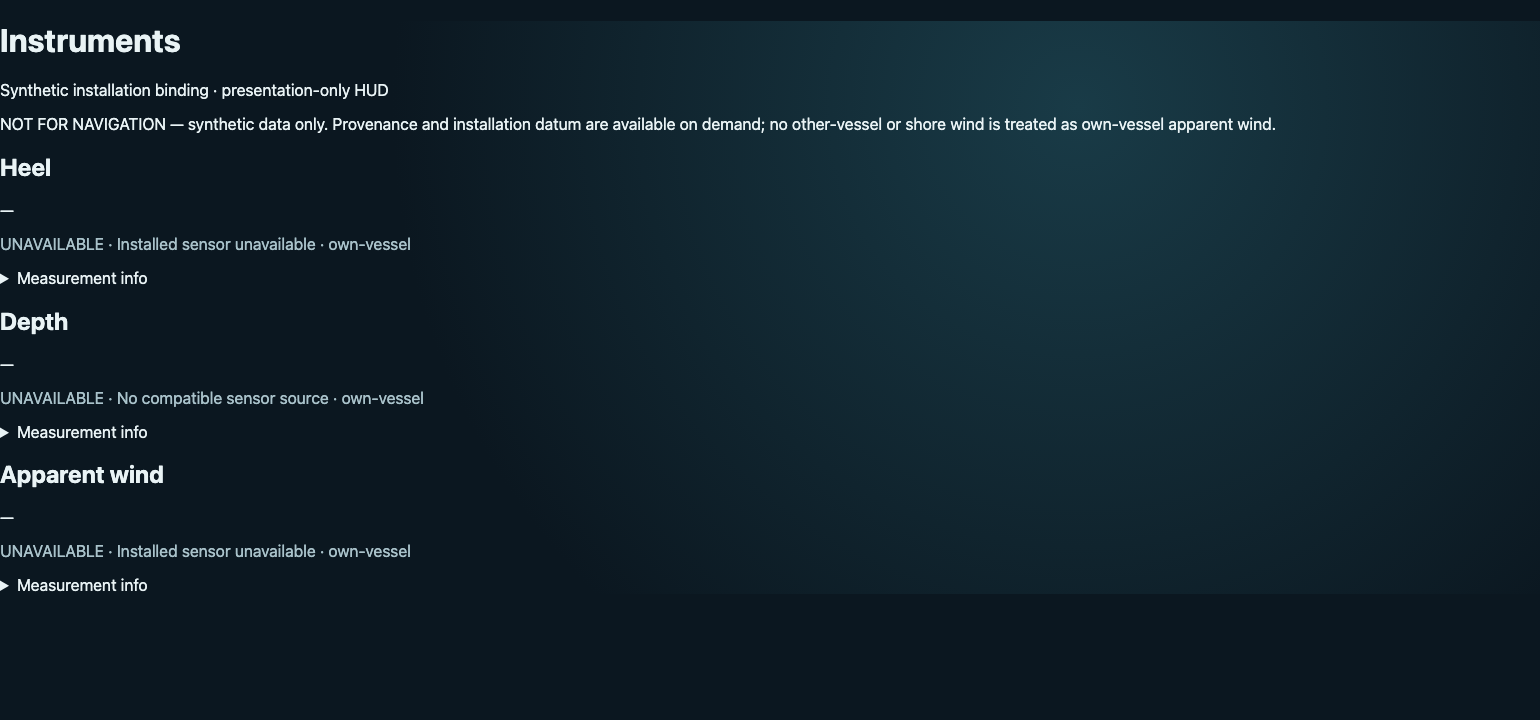
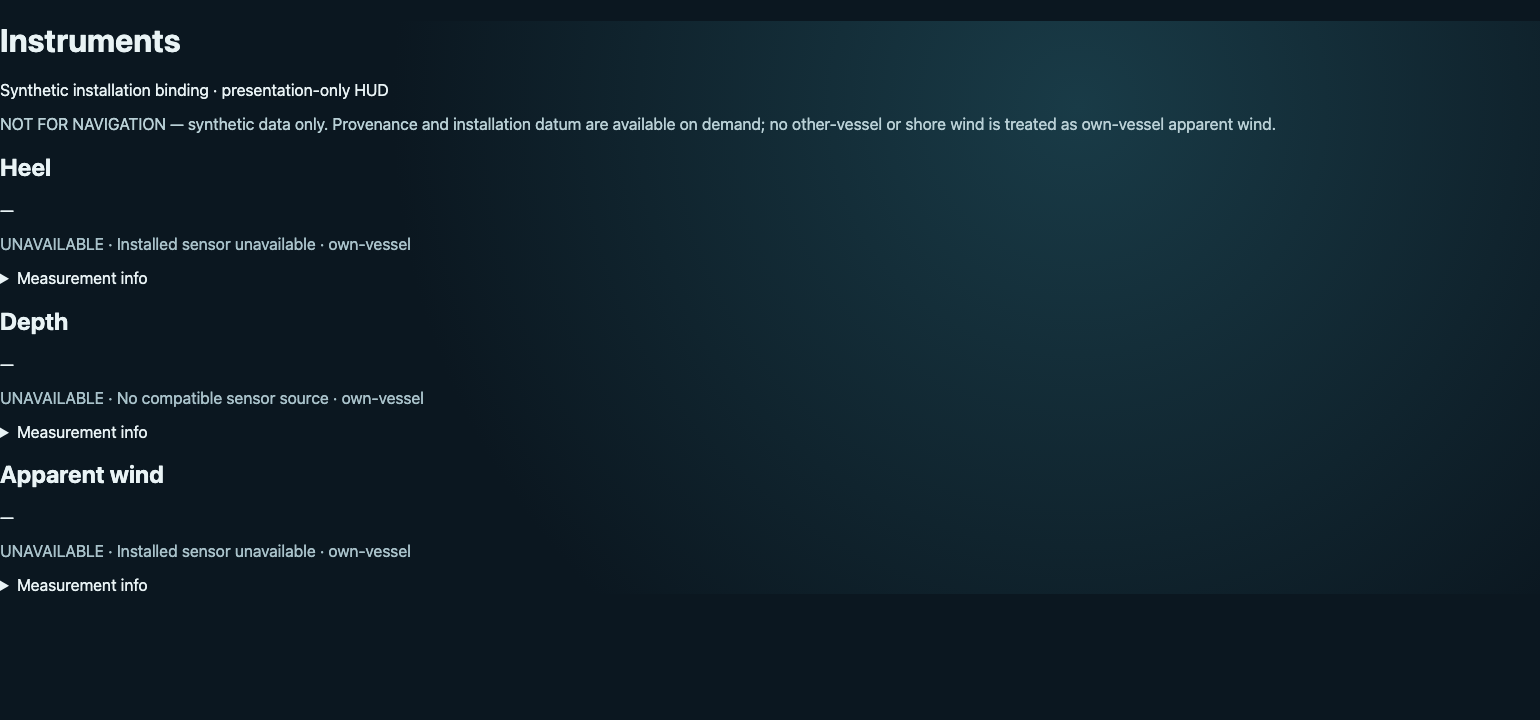
feat: add local display template setup

Changed region(s): [[0.0, 0.1528, 0.8416, 0.1833]]

diff --git a/src/profile.css b/src/profile.css
@@ -1,2 +1,3 @@
 :root{font-family:ui-sans-serif,system-ui,sans-serif;color:#e9f3f5;background:#0b1720}*{box-sizing:border-box}body{margin:0;background:radial-gradient(circle at 70% 15%,#193b47,#0b1720 58%)}button,select,input{font:inherit}button,select{background:#244854;color:#e9f3f5;border:1px solid #5b8490;border-radius:7px;padding:.6rem .85rem}button:focus-visible,input:focus-visible,select:focus-visible{outline:3px solid #f7cc74}.sim{max-width:1024px;margin:auto;padding:2rem}.sim header{display:flex;justify-content:space-between;align-items:center;gap:1rem;flex-wrap:wrap}.sim h1{margin:0}.notice,.meta{color:#a9c2ca}.controls{display:grid;grid-template-columns:repeat(auto-fit,minmax(290px,1fr));gap:1rem;margin-top:1.5rem}.card{background:#132833;border:1px solid #385664;border-radius:14px;padding:1rem}.card h2{margin-top:0}.row{display:flex;gap:.6rem;align-items:center;flex-wrap:wrap}.source-control{border-top:1px solid #385664;padding:.8rem 0}.source-control input[type=range]{width:100%;accent-color:#80d2c3}.status.good{color:#95e3bf}.status.bad{color:#ffb9a8}.hud{width:100vw;height:100vh;overflow:hidden;display:grid;grid-template-columns:minmax(0,1fr) minmax(300px,31vw);gap:clamp(12px,1.4vw,24px);padding:clamp(14px,1.7vw,28px);background:radial-gradient(ellipse at 22% 88%,#1b5360 0,#102a35 35%,#09161d 78%)}.hud-speed,.hud-heel{position:relative;border:1px solid rgba(157,227,202,.25);border-radius:22px;overflow:hidden;background:linear-gradient(135deg,rgba(26,61,70,.62),rgba(9,22,29,.8))}.hud-speed h2,.hud-heel h2{position:absolute;z-index:2;top:clamp(18px,3vh,30px);left:clamp(20px,3vw,46px);margin:0;color:#b3d3d7;font-size:clamp(.8rem,1.5vw,1.2rem);font-weight:650;letter-spacing:.16em;text-transform:uppercase}.speed-history{position:absolute;inset:12% 3% 12%;width:94%;height:76%;opacity:.72}.speed-history path{fill:none;stroke:#82ded0;stroke-width:1.6}.speed-number{position:absolute;z-index:1;inset:0;display:grid;place-content:center;font-size:clamp(7rem,19vw,19rem);line-height:.8;font-weight:800;font-variant-numeric:tabular-nums;text-shadow:0 3px 12px #061116,0 0 26px #061116}.speed-number small{font-size:.18em}.hud .status{position:absolute;z-index:2;bottom:clamp(14px,2.5vh,26px);left:clamp(20px,3vw,46px);margin:0;font-size:clamp(.72rem,1.1vw,.9rem);letter-spacing:.08em}.hud-heel{display:grid;place-items:center}.heel-value{font-size:clamp(5rem,12vw,11rem);font-weight:750;font-variant-numeric:tabular-nums;text-align:center}.heel-value small{font-size:.26em}.heel-direction{color:#9ddfcf;text-align:center;font-weight:700;letter-spacing:.14em}.heel-gauge{position:absolute;bottom:9%;width:76%;height:12px;border-radius:20px;background:linear-gradient(90deg,#e67e63,#78979b 50%,#67c8b2)}.heel-pointer{position:absolute;top:-8px;width:5px;height:28px;background:#fff;border-radius:5px;transform:translateX(-50%)}.hud-wait{position:absolute;inset:0;display:grid;place-items:center;text-align:center;color:#b6d1d5;font-size:clamp(1rem,2vw,1.5rem);background:rgba(5,15,20,.35);z-index:4}.hud-wait[hidden]{display:none}@media(max-width:700px){.hud{grid-template-columns:1fr;grid-template-rows:1.3fr 1fr;padding:10px;gap:10px}.sim{padding:1rem}}
+.sensor-setup{max-width:1040px;margin:auto;padding:2rem}.sensor-setup h1{margin-bottom:.2rem}.sensor-setup .subtitle,.banner{color:#b9d0d6}.template-list{display:grid;grid-template-columns:repeat(auto-fit,minmax(260px,1fr));gap:1rem;margin-top:1rem}.template-card .compatibility{min-height:2.8rem;color:#b9d0d6}.template-card.available{border-color:#74cbae}.template-card.partial{border-color:#f3c46e}.template-card.incompatible{opacity:.68;border-color:#a97878}.template-card button:disabled{cursor:not-allowed;opacity:.5}
 .hud-with-wind{grid-template-columns:minmax(0,1.25fr) minmax(250px,.8fr) minmax(250px,.8fr)}.hud-wind{position:relative;overflow:hidden;border:1px solid rgba(157,227,202,.25);border-radius:22px;background:linear-gradient(135deg,rgba(26,61,70,.62),rgba(9,22,29,.8))}.hud-wind h2{position:absolute;z-index:2;top:clamp(18px,3vh,30px);left:clamp(20px,3vw,32px);margin:0;color:#b3d3d7;font-size:clamp(.75rem,1.3vw,1.05rem);font-weight:650;letter-spacing:.13em;text-transform:uppercase}.wind-speed{position:absolute;z-index:2;top:20%;left:0;width:100%;text-align:center;font-size:clamp(3.2rem,7vw,7rem);line-height:.85;font-weight:800;font-variant-numeric:tabular-nums}.wind-speed small{font-size:.2em}.wind-dial{position:absolute;left:50%;bottom:12%;width:min(76%,300px);aspect-ratio:1;border:2px solid #79b5b4;border-radius:50%;transform:translateX(-50%);background:radial-gradient(circle,#173d48 0 43%,transparent 44%)}.wind-dial b{position:absolute;color:#b3d3d7;font-size:clamp(.55rem,.9vw,.75rem);letter-spacing:.08em;text-align:center}.wind-dial .bow{top:7%;left:50%;transform:translateX(-50%)}.wind-dial .port{left:4%;top:47%;transform:translateY(-50%)}.wind-dial .starboard{right:4%;top:47%;transform:translateY(-50%)}.wind-pointer{position:absolute;left:calc(50% - 3px);top:13%;width:6px;height:39%;transform-origin:50% 96%;background:#f7cc74;border-radius:8px;box-shadow:0 0 12px #f7cc74}.wind-pointer:before{content:'';position:absolute;top:-9px;left:-6px;border-left:9px solid transparent;border-right:9px solid transparent;border-bottom:13px solid #f7cc74}.wind-angle{position:absolute;left:50%;top:53%;transform:translate(-50%,-50%);color:#fff;font-weight:800;font-size:clamp(.8rem,1.5vw,1.15rem);white-space:nowrap}.mode-number .wind-dial{opacity:.25;transform:translateX(-50%) scale(.7);bottom:2%}.mode-number .wind-speed{top:34%;font-size:clamp(4rem,9vw,9rem)}.mode-dial .wind-speed{display:none}.mode-dial .wind-dial{top:18%;bottom:auto;width:min(82%,340px)}.hud-wind .status{position:absolute;bottom:clamp(14px,2.5vh,26px);left:clamp(20px,3vw,32px);margin:0;font-size:clamp(.62rem,.9vw,.8rem);letter-spacing:.08em}@media(max-width:900px){.hud-with-wind{grid-template-columns:1fr 1fr;grid-template-rows:1fr 1fr}.hud-with-wind .hud-speed{grid-row:span 2}}@media(max-width:700px){.hud-with-wind{grid-template-columns:1fr;grid-template-rows:repeat(3,minmax(260px,1fr))}.hud-with-wind .hud-speed{grid-row:auto}}

diff --git a/SENSOR-GROUPS.md b/SENSOR-GROUPS.md
@@ -6,6 +6,14 @@
 - A reusable template declares required and optional semantic inputs. It does not name a provider, model, complete boat inventory or transport.
 - A session picks one installation group and one template. It makes deterministic bindings in declared candidate order and retains producer, frame, timestamp, validity and installation metadata.
 
+## Local setup and community displays
+
+Open `/?view=setup&sensorSession=heel-only-demo` for the small offline setup view. It classifies every community template as **available**, **partial**, or **incompatible**, then creates a HUD URL with the selected template. Selection never writes or alters the installation group, calibration, datum, provider or bindings. The running `?view=hud&sensorSession=...` surface has no setup controls; expand **Measurement info** for source/frame/timestamp and datum context.
+
+The fixture demonstrates the same `heel-degrees` community template with `demo-boat` and `heel-only-boat`, despite their different installed inventories. `demo-boat` can also choose `heel-radians` or `heel-qualitative`. A setup choice may override the heel display unit (`deg` or `rad`) for that user session; it is presentation only and is never a sensor-unit conversion or calibration edit.
+
+Templates are the shareable part of this file. Providers and groups are deliberately local-installation-shaped. Public contributions must use non-identifying labels and synthetic/example values: never add a vessel name, registration, location, route, credentials, raw telemetry, or real calibration. A generic sensor mapping example must state observation, unit, frame and installation meaning; depth must state datum plus calibration/offset known or `unknown`. Templates must use semantic inputs and must not couple to a manufacturer, provider ID or boat identity.
+
 `evaluateTemplate` returns `available` only when every declared input is compatible, `partial` when at least one declared input is compatible but another required **or optional** input is missing, and `incompatible` when no declared input is compatible. This explicitly covers optional-only templates: a subset of their inputs is `partial`, while none is `incompatible`. Extra channels are ignored. This makes an optional missing dial visible without blocking a usable template. A non-existent compatible channel is `No compatible sensor source`; an installed channel with no fresh valid reading is `Installed sensor unavailable or stale`. Those states must not be conflated.
 
 The fixture’s heel-only sessions use exactly the same semantic heel binding while their template preferences render degrees, radians, or configurable `flat` / `little` / `lots to port/starboard` labels. Thresholds must be ordered `0 ≤ flat < little < lots ≤ 90`; beyond `lots`, the formatter falls back to an explicit signed-degree direction rather than silently applying a category outside its configured range. Wind supports knot/metres-per-second display conversion and depth supports metres/feet conversion, but a conversion never changes a depth datum: an unknown datum remains unknown, not keel or waterline depth. An other-vessel or fixed-site wind channel cannot bind an own-vessel apparent-wind input.

diff --git a/CONFIGURATION.md b/CONFIGURATION.md
@@ -11,3 +11,5 @@ RMC replay provides recorded SOG. MWV replay accepts only `R` apparent-wind sent
 ## Boat-local installation examples
 
 `examples/synthetic-sensor-groups.json` is intentionally separate from `config.json` so it does not change the legacy simulator, replay, Signal K or two-window HUD path. Its groups are boat/context-local installations, not display layouts. Channels carry typed observation/unit/frame semantics plus installation metadata (for example a depth datum and offset known/unknown). Templates use required and optional semantic inputs, sessions choose one template plus one installation, and compatibility is `available`, `partial`, or `incompatible`. Share generic templates and synthetic definitions; do not publish boat identity, calibration, locations, credentials or secrets by default.
+
+Use `/?view=setup&sensorSession=heel-only-demo` to inspect the deterministic offline catalogue before launching a selected HUD. The setup route is the only selection surface; the HUD is presentation-only. Template preferences (such as heel degrees/radians/bands and wind/depth units) affect formatting only. They do not rewrite a provider’s declared unit, datum, calibration, observation provenance or reference frame.

diff --git a/CONTRIBUTING.md b/CONTRIBUTING.md
@@ -66,6 +66,12 @@ When evaluating or proposing a behavioural change, please keep the existing proj
 - update documentation when supported behaviour changes;
 - add or update automated coverage for behavioural changes.
 
+### Community display and sensor examples
+
+Community display templates use semantic observation/unit/frame inputs, never a hardware manufacturer, provider identifier, or boat identity. Local installation examples must declare the physical meaning of every channel. Depth requires an explicit `transducer`, `keel`, `waterline`, or `unknown` datum and an offset/calibration that is known or `unknown`; contributors must not imply a datum conversion from an unknown offset. Keep examples privacy-safe and synthetic: do not commit vessel names, registrations, locations, routes, credentials, raw private recordings, or real calibration values.
+
+Use `examples/synthetic-sensor-groups.json` and `SENSOR-GROUPS.md` as the small validated starter convention for heel-only, wind-only and richer inventories. It is an offline contract/example, not an adapter contribution format or a claim that a real device is supported.
+
 The current validation commands are:
 
 ```sh

diff --git a/README.md b/README.md
@@ -51,6 +51,8 @@ For a smaller composition, use `sailing-hud`. For the wind-enabled composition, 
 
 The synthetic installation fixture is available at `/?view=hud&sensorSession=heel-demo`. It is a presentation-only HUD: setup choices are not controls on that screen. `sensor-groups-demo.html?session=heel-demo&harness=true` is the clearly labelled engineering harness. Both are synthetic only and do not connect to phones, other boats, shore stations, or any remote service.
 
+For the local setup flow, open `/?view=setup&sensorSession=heel-only-demo`. It lists compatible, partial and incompatible community displays for that installation and opens the selected presentation without editing its sensor meanings. The committed fixture shows two differently equipped synthetic boats using the same heel display, plus one boat using degree, radian and qualitative heel displays.
+
 More detail lives in the focused technical documents:
 
 - [Widget catalogue and contracts](WIDGETS.md)
